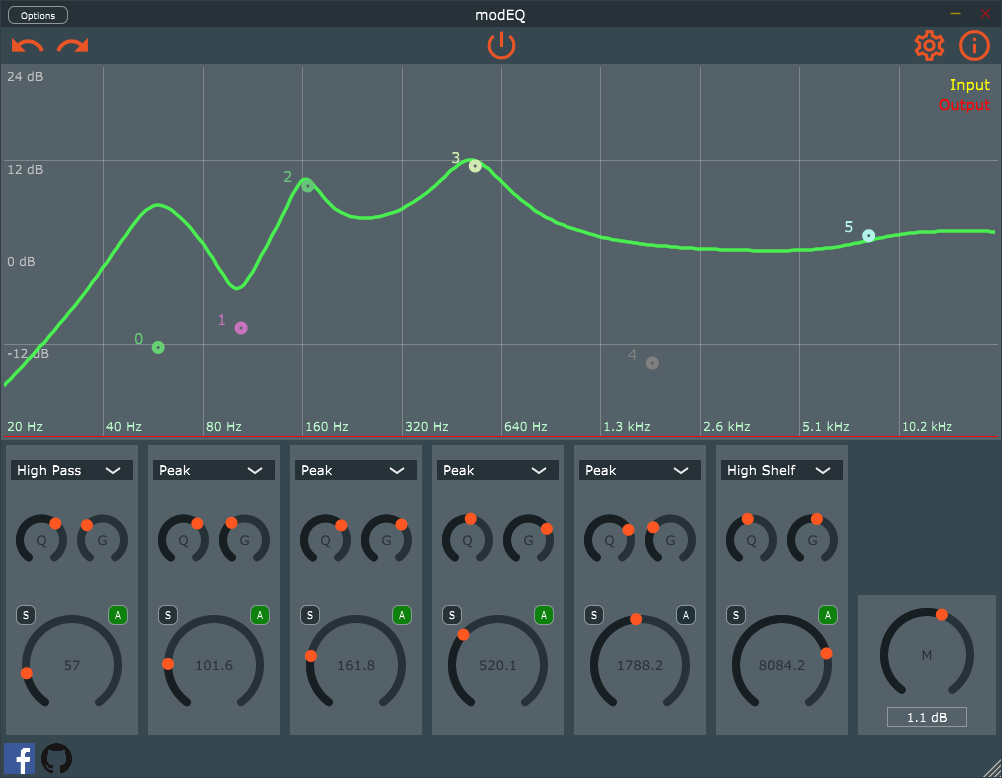
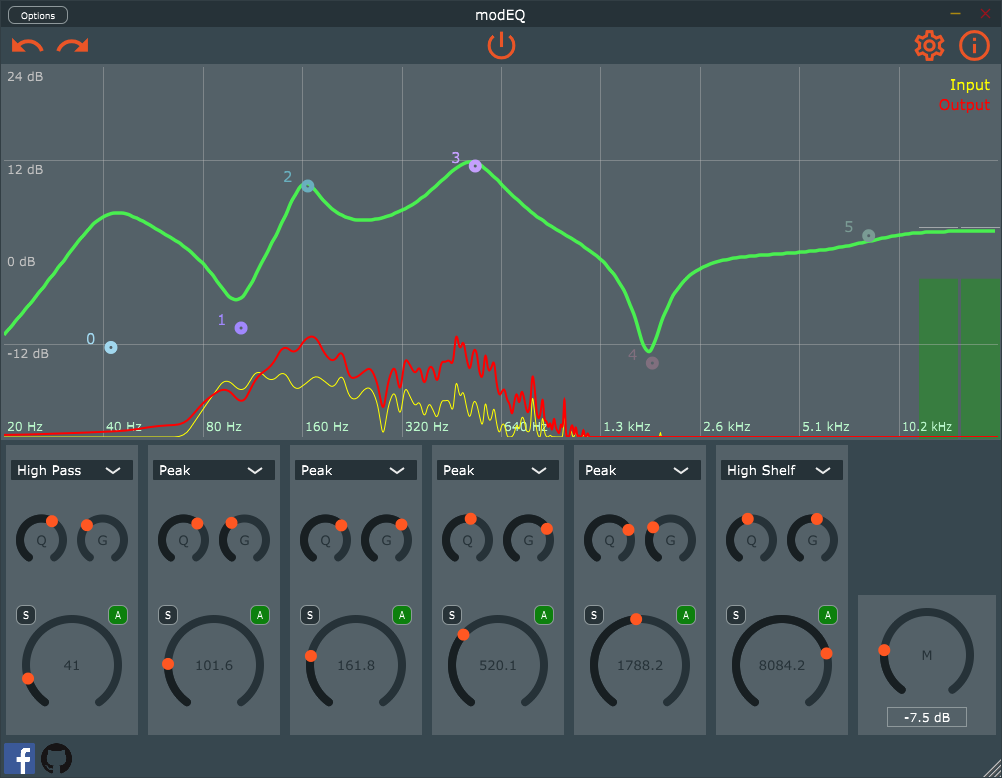
Customize meter look & feel

diff --git a/Source/look_and_feel/tobante_look_and_feel.h b/Source/look_and_feel/tobante_look_and_feel.h
@@ -22,6 +22,77 @@
 namespace tobanteAudio
 {
 /**
+ * @brief Look and feel (theme) for all level meters.
+ *
+ * Inherites from ff_meters look & feel.
+ */
+class TobanteMetersLookAndFeel : public FFAU::LevelMeterLookAndFeel
+{
+    /**
+     * @brief Override this to draw background and if wanted a frame. If the frame takes
+     * space away, it should return the reduced bounds.
+     */
+    juce::Rectangle<float> drawBackground(juce::Graphics& g,
+                                          const FFAU::LevelMeter::MeterFlags meterType,
+                                          const juce::Rectangle<float> bounds) override
+    {
+        return bounds;
+    }
+
+    /**
+     * @brief This draws the static background of the whole level meter group with all
+     * channels.
+     */
+    void drawMeterBarsBackground(juce::Graphics& g,
+                                 const FFAU::LevelMeter::MeterFlags meterType,
+                                 const juce::Rectangle<float> bounds,
+                                 const int numChannels,
+                                 const int fixedNumChannels) override
+    {
+    }
+
+    /**
+     * @brief This callback draws the clip indicator. The background has an extra
+     * callback.
+     */
+    void drawClipIndicator(juce::Graphics&, const FFAU::LevelMeter::MeterFlags meterType,
+                           const juce::Rectangle<float> bounds,
+                           const bool hasClipped) override
+    {
+    }
+
+    /**
+     * @brief This callback draws the number of maximum level. The background has an extra
+     * callback.
+     */
+    void drawMaxNumber(juce::Graphics&, const FFAU::LevelMeter::MeterFlags meterType,
+                       const juce::Rectangle<float> bounds, const float maxGain) override
+    {
+    }
+
+    /*
+     * @brief Override this callback to define the placement of the tickmarks. To disable
+     * this feature return an empty rectangle.
+     */
+    juce::Rectangle<float>
+    getMeterTickmarksBounds(const juce::Rectangle<float> bounds,
+                            const FFAU::LevelMeter::MeterFlags meterType) const override
+    {
+        return juce::Rectangle<float>();
+    }
+
+    /*
+     * @brief Override this callback to define the placement of the actual meter bar.
+     */
+    juce::Rectangle<float>
+    getMeterBarBounds(const juce::Rectangle<float> bounds,
+                      const FFAU::LevelMeter::MeterFlags meterType) const override
+    {
+        return bounds;
+    }
+};
+
+/**
  * @brief Look and feel (theme) for all widgets.
  *
  * Every JUCE widget has a method which can be overwritten to

diff --git a/Source/modEQ_editor.cpp b/Source/modEQ_editor.cpp
@@ -75,6 +75,17 @@ ModEQEditor::ModEQEditor(ModEQProcessor& p)
         addAndMakeVisible(bandView);
     }
 
+    // Meter
+    lnf = new tobanteAudio::TobanteMetersLookAndFeel();
+    // adjust the colours to how you like them
+    lnf->setColour(FFAU::LevelMeter::lmMeterGradientLowColour, juce::Colours::green);
+
+    meter = new FFAU::LevelMeter();  // See FFAU::LevelMeter::MeterFlags for options
+    meter->setLookAndFeel(lnf);
+    meter->setMeterFlags(FFAU::LevelMeter::MaxNumber);
+    meter->setMeterSource(processor.getMeterSource());
+    addAndMakeVisible(meter);
+
     // Plot
     using tobanteAudio::AnalyserController;
     using tobanteAudio::AnalyserView;
@@ -84,16 +95,6 @@ ModEQEditor::ModEQEditor(ModEQProcessor& p)
     analyserController
         = std::make_unique<AnalyserController>(eq, bandControllers, *analyserView.get());
     addAndMakeVisible(analyserView.get());
-
-    // Meter
-    lnf = new FFAU::LevelMeterLookAndFeel();
-    // adjust the colours to how you like them
-    lnf->setColour(FFAU::LevelMeter::lmMeterGradientLowColour, juce::Colours::green);
-
-    meter = new FFAU::LevelMeter();  // See FFAU::LevelMeter::MeterFlags for options
-    meter->setLookAndFeel(lnf);
-    meter->setMeterSource(processor.getMeterSource());
-    addAndMakeVisible(meter);
 
     // Master Section
     addAndMakeVisible(output);
@@ -162,8 +163,10 @@ void ModEQEditor::resized()
     outputSliderFrame = bandSpace.removeFromBottom(bandSpace.getHeight() / 2).reduced(5);
     output.setBounds(outputSliderFrame.reduced(8));
 
-	// Meter
-    meter->setBounds(bandSpace);
+    // Meter
+    auto meter_area = area;
+    // meter->setBounds(bandSpace.reduced(5));
+    meter->setBounds(meter_area.removeFromRight(area.getWidth() / 12));
 
     // FFT
     analyserView->setBounds(area);

diff --git a/Source/modEQ_editor.h b/Source/modEQ_editor.h
@@ -70,9 +70,9 @@ private:
     std::unique_ptr<tobanteAudio::AnalyserView> analyserView;
     std::unique_ptr<tobanteAudio::AnalyserController> analyserController;
 
-	// Meter
-    ScopedPointer<FFAU::LevelMeterLookAndFeel> lnf;
-	ScopedPointer<FFAU::LevelMeter> meter;
+    // Meter
+    ScopedPointer<tobanteAudio::TobanteMetersLookAndFeel> lnf;
+    ScopedPointer<FFAU::LevelMeter> meter;
 
     // Master - Out
     Slider output;
